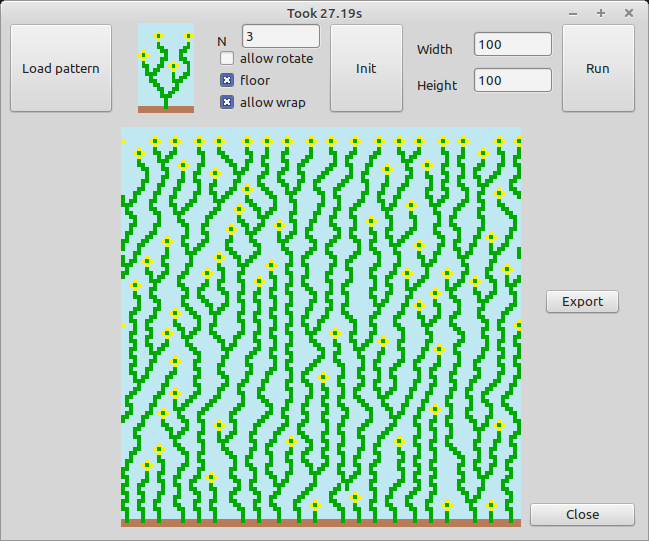
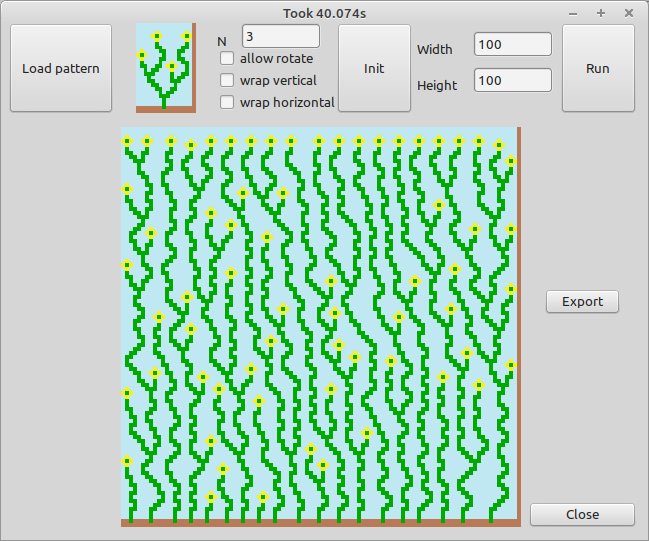
ADD: Update docu

diff --git a/Wave_function_collapse/Overlap_model/Readme.md b/Wave_function_collapse/Overlap_model/Readme.md
@@ -18,10 +18,10 @@ Before diving into the code i highly recommend to read the explanations from abo
 
   | Parameter | Description |
   | --- | --- |
-  | N | Affects the detailgrade of the subpatterns, typically you should set N somewhere between 2 and 7 (for the most sample images use 3)  
-  |allow rotate | if set, the source pattern can "Rotate" freely, otherwise not (best to see with "demo-1.png")
-  | floor | disable wrap vertically (automatically disables allow rotate) (test with "demo-flowers.png")
-  | allow wrap | disables the N sampling to go "over" the edges of the image (ignores a N-Pixel wide range on the left and buttom side of the image)
+  | N | Affects the detailgrade of the subpatterns, typically you should set N somewhere between 2 and 7 (for the most sample images use 3) <br> if set to small it could be, that you get garbage, if set to big you maybe could not get enough "new" content
+  |allow rotate | if set, the source pattern can "Rotate" freely, otherwise not (best to test with "demo-1.png")
+  | wrap vertical | if not checked, the pattern can not cross the bottom / top border (test with "demo-flowers.png"). Disables allow rotate <br> ! Attention !<br> in order to work properly the image should not contain "pixels" that are used in the last row of the image
+  | wrap horizontal | if not checked, the pattern can not cross the right / left border (test with "demo-flowers2.png"). Disables allow rotate <br> ! Attention !<br> in order to work properly the image should not contain "pixels" that are used in the last column of the image
 
 3.  Hit int button and wait until initialization is finished (this can take quit long if N is large)
 4.  Define output width and height (typically ~40, but the only limit is the RAM of your machine and the time you want to wait until it is finished)
